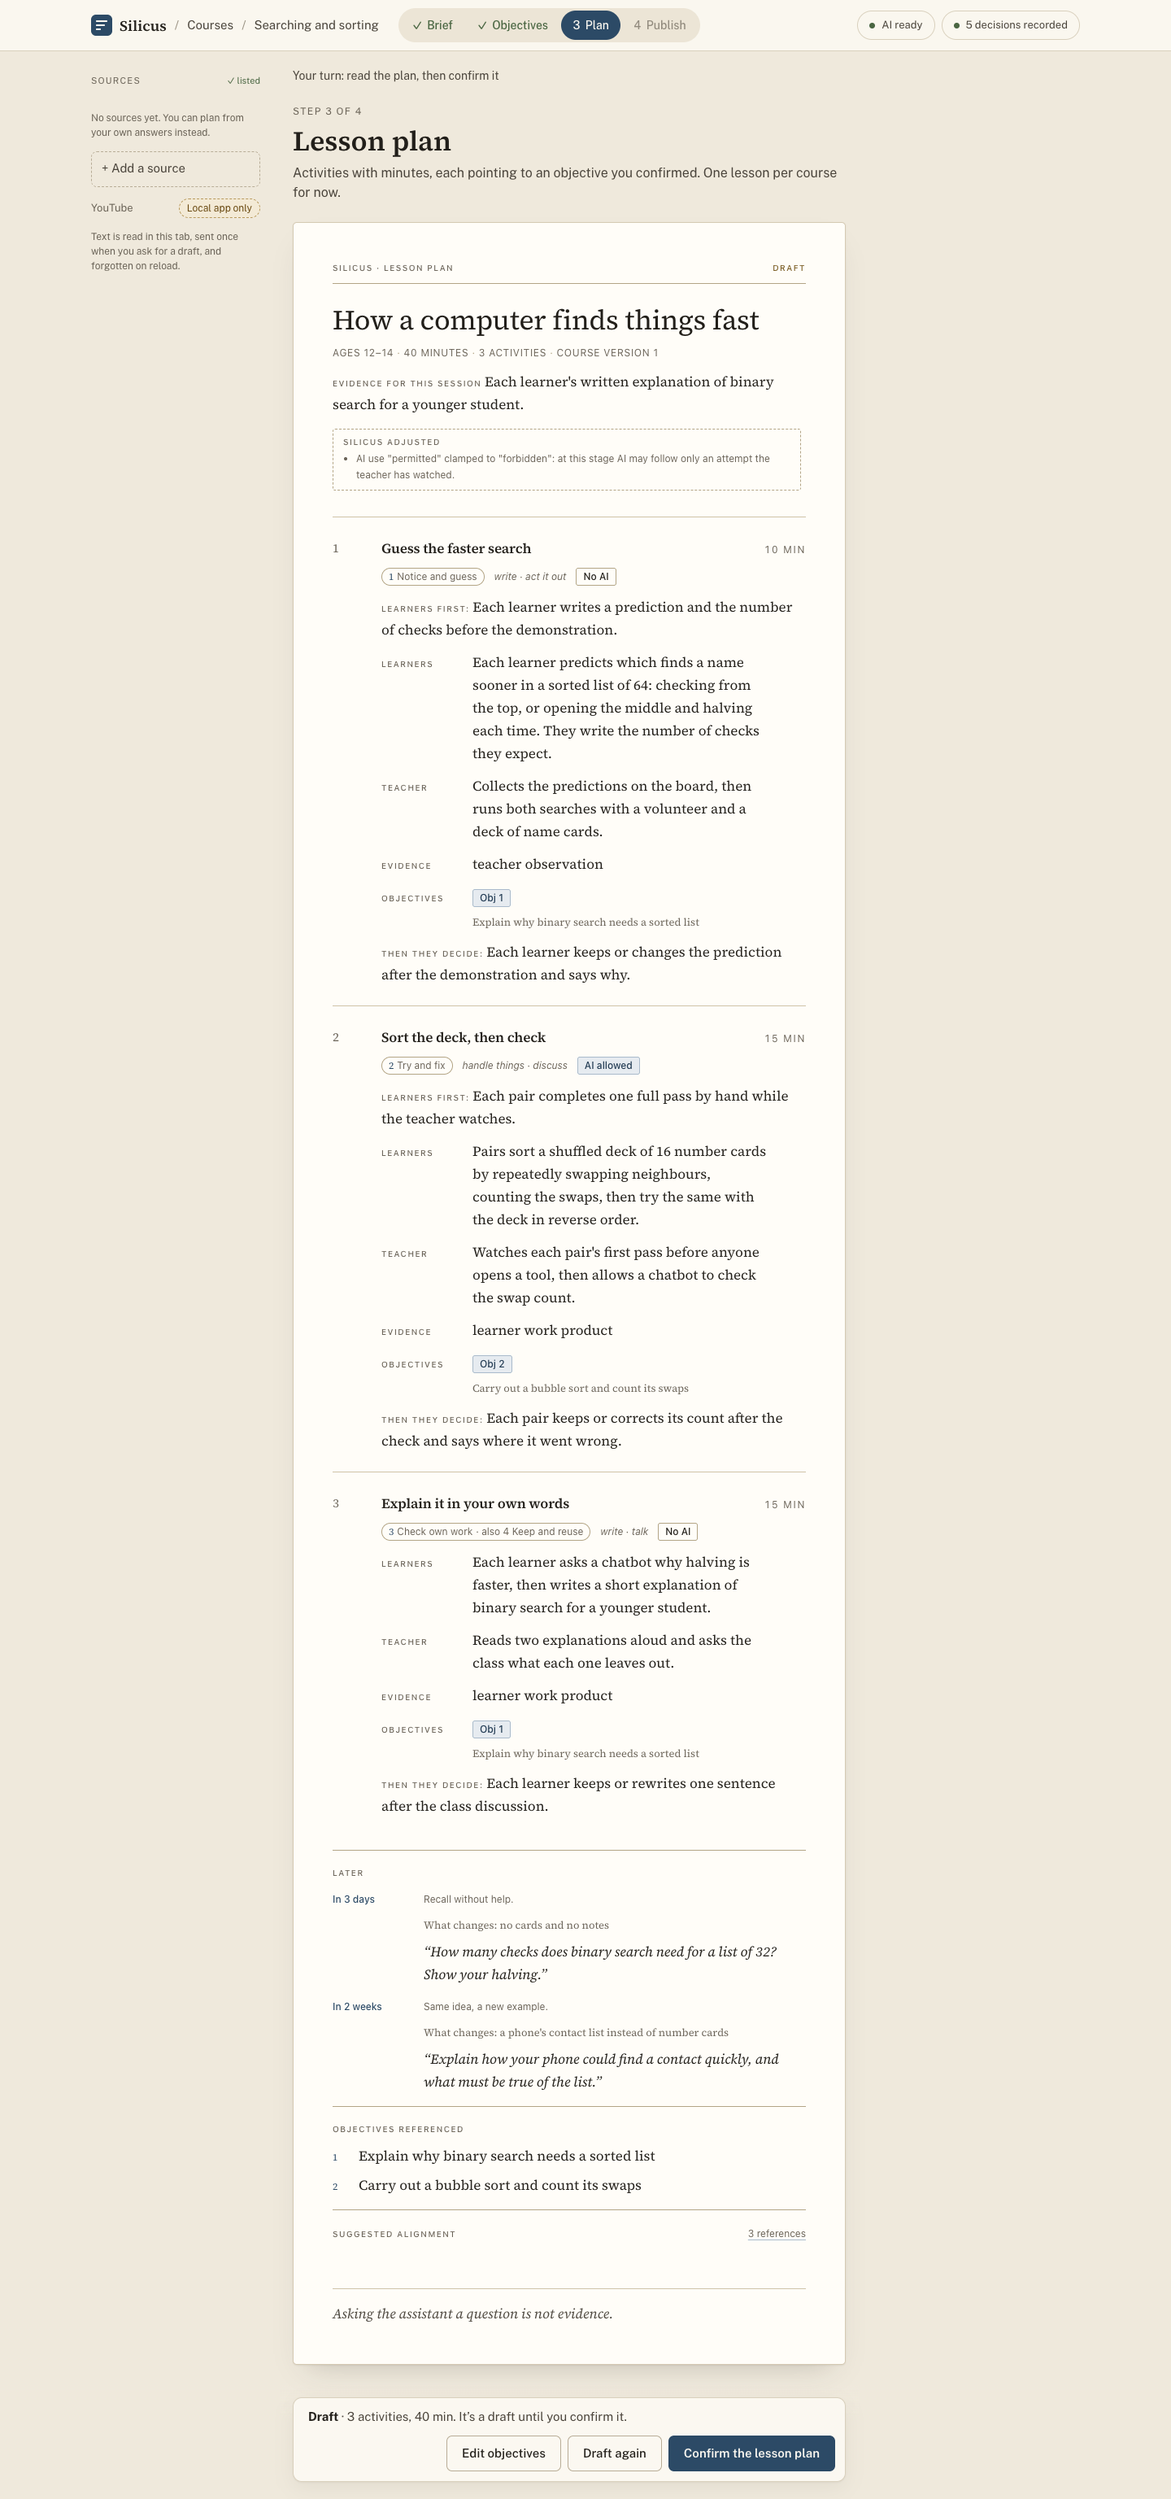
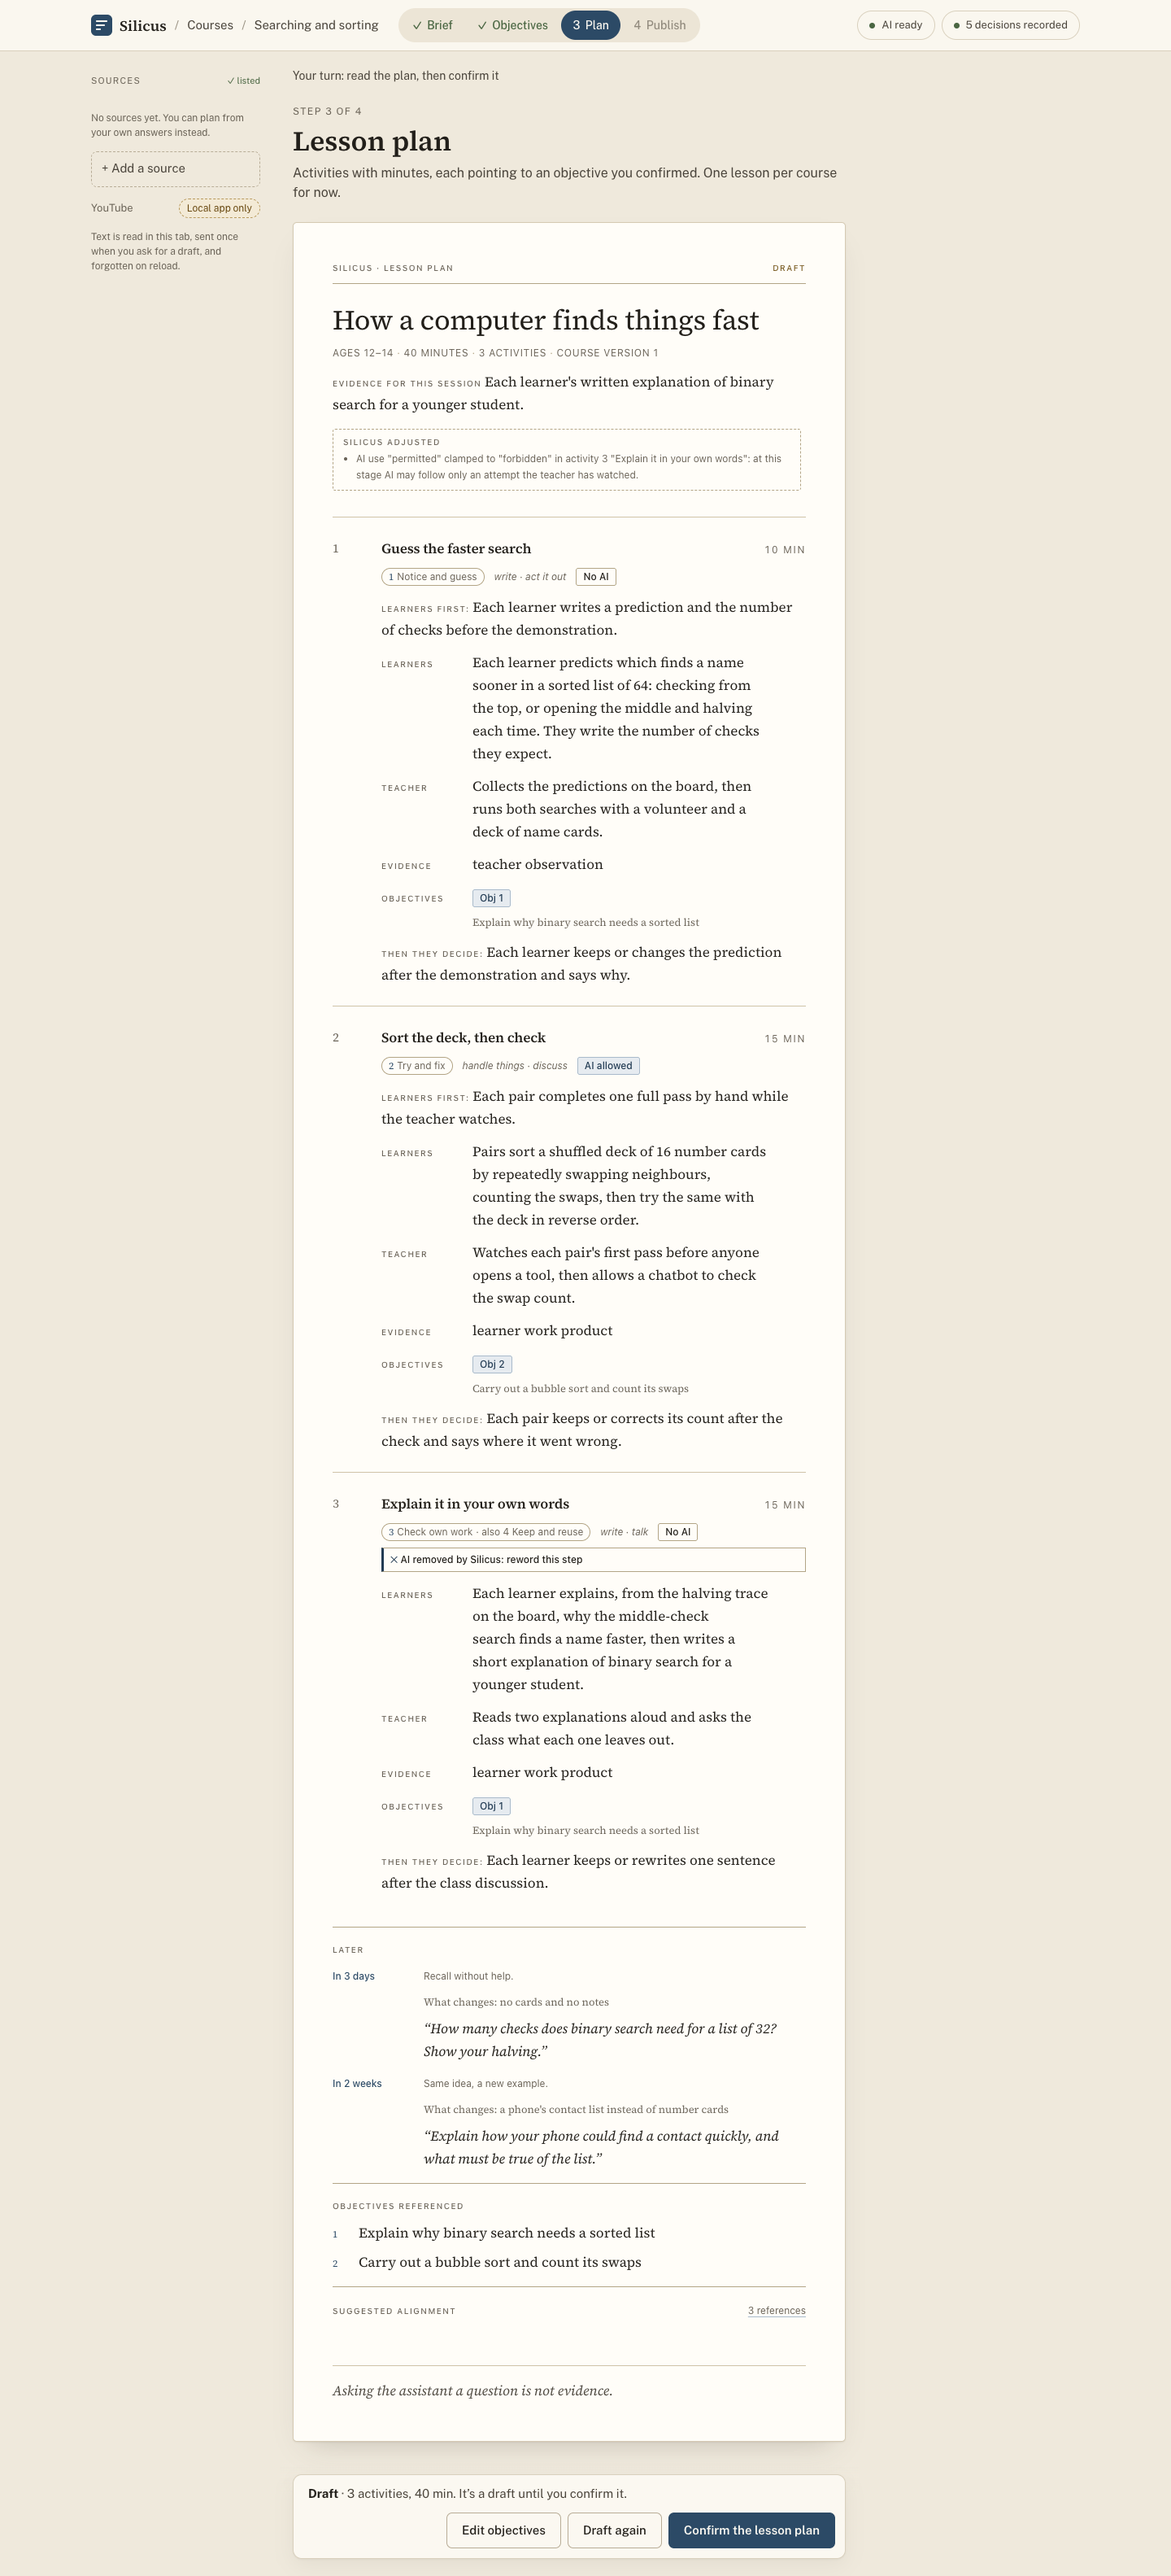
wip(H3): C5 — docs/img/README.md names the scripted-fixture plan images (not model output) and the dates; stage-3 screenshot refreshed for the C2 clamp (note names activity 3, card carries the marker)

diff --git a/docs/img/README.md b/docs/img/README.md
@@ -1,0 +1,28 @@
+# docs/img — screenshots
+
+Screenshots for the docs and the demo round of 14 November 2026, taken by the
+frontend smoke scripts (`frontend/scripts/browser-mode-smoke.mjs`,
+`frontend/scripts/narrow-shell.mjs`).
+
+## Scripted fixture plans — not model output
+
+All four `2026-11-14-plan-v2-*.png` images render **scripted fixture plans**
+from `host/test/scripted-course.mjs` (`scriptedPlanV2`), not live model output:
+
+| Image | Fixture |
+|---|---|
+| `plan-v2-desktop.png`, `plan-v2-390.png`, `plan-v2-print.png` | 5–12 "AI in Daily Life" course, plan "Spotting AI in daily life" |
+| `plan-v2-stage3.png` | stage-3 Computing course (12–14), plan "How a computer finds things fast" |
+
+The plan travels the host's real worker path, but the worker reply is the
+fixture, so the images are deterministic and reproducible without a model
+credential.
+
+- Rendered 2026-11-14 (H2b round).
+- `plan-v2-stage3.png` refreshed 2026-11-17 (H3): the clamp note names
+  activity 3 and the card itself shows the "AI removed by Silicus" marker.
+
+The other images are interactive studio steps with no plan and no worker:
+`2026-11-14-wizard-step1-{desktop,390}.png` (course wizard) and
+`2026-11-14-graph-{objectives,plan}-{desktop,390}.png` (objectives /
+pre-draft neighbourhood graph from the Marble snapshot).
